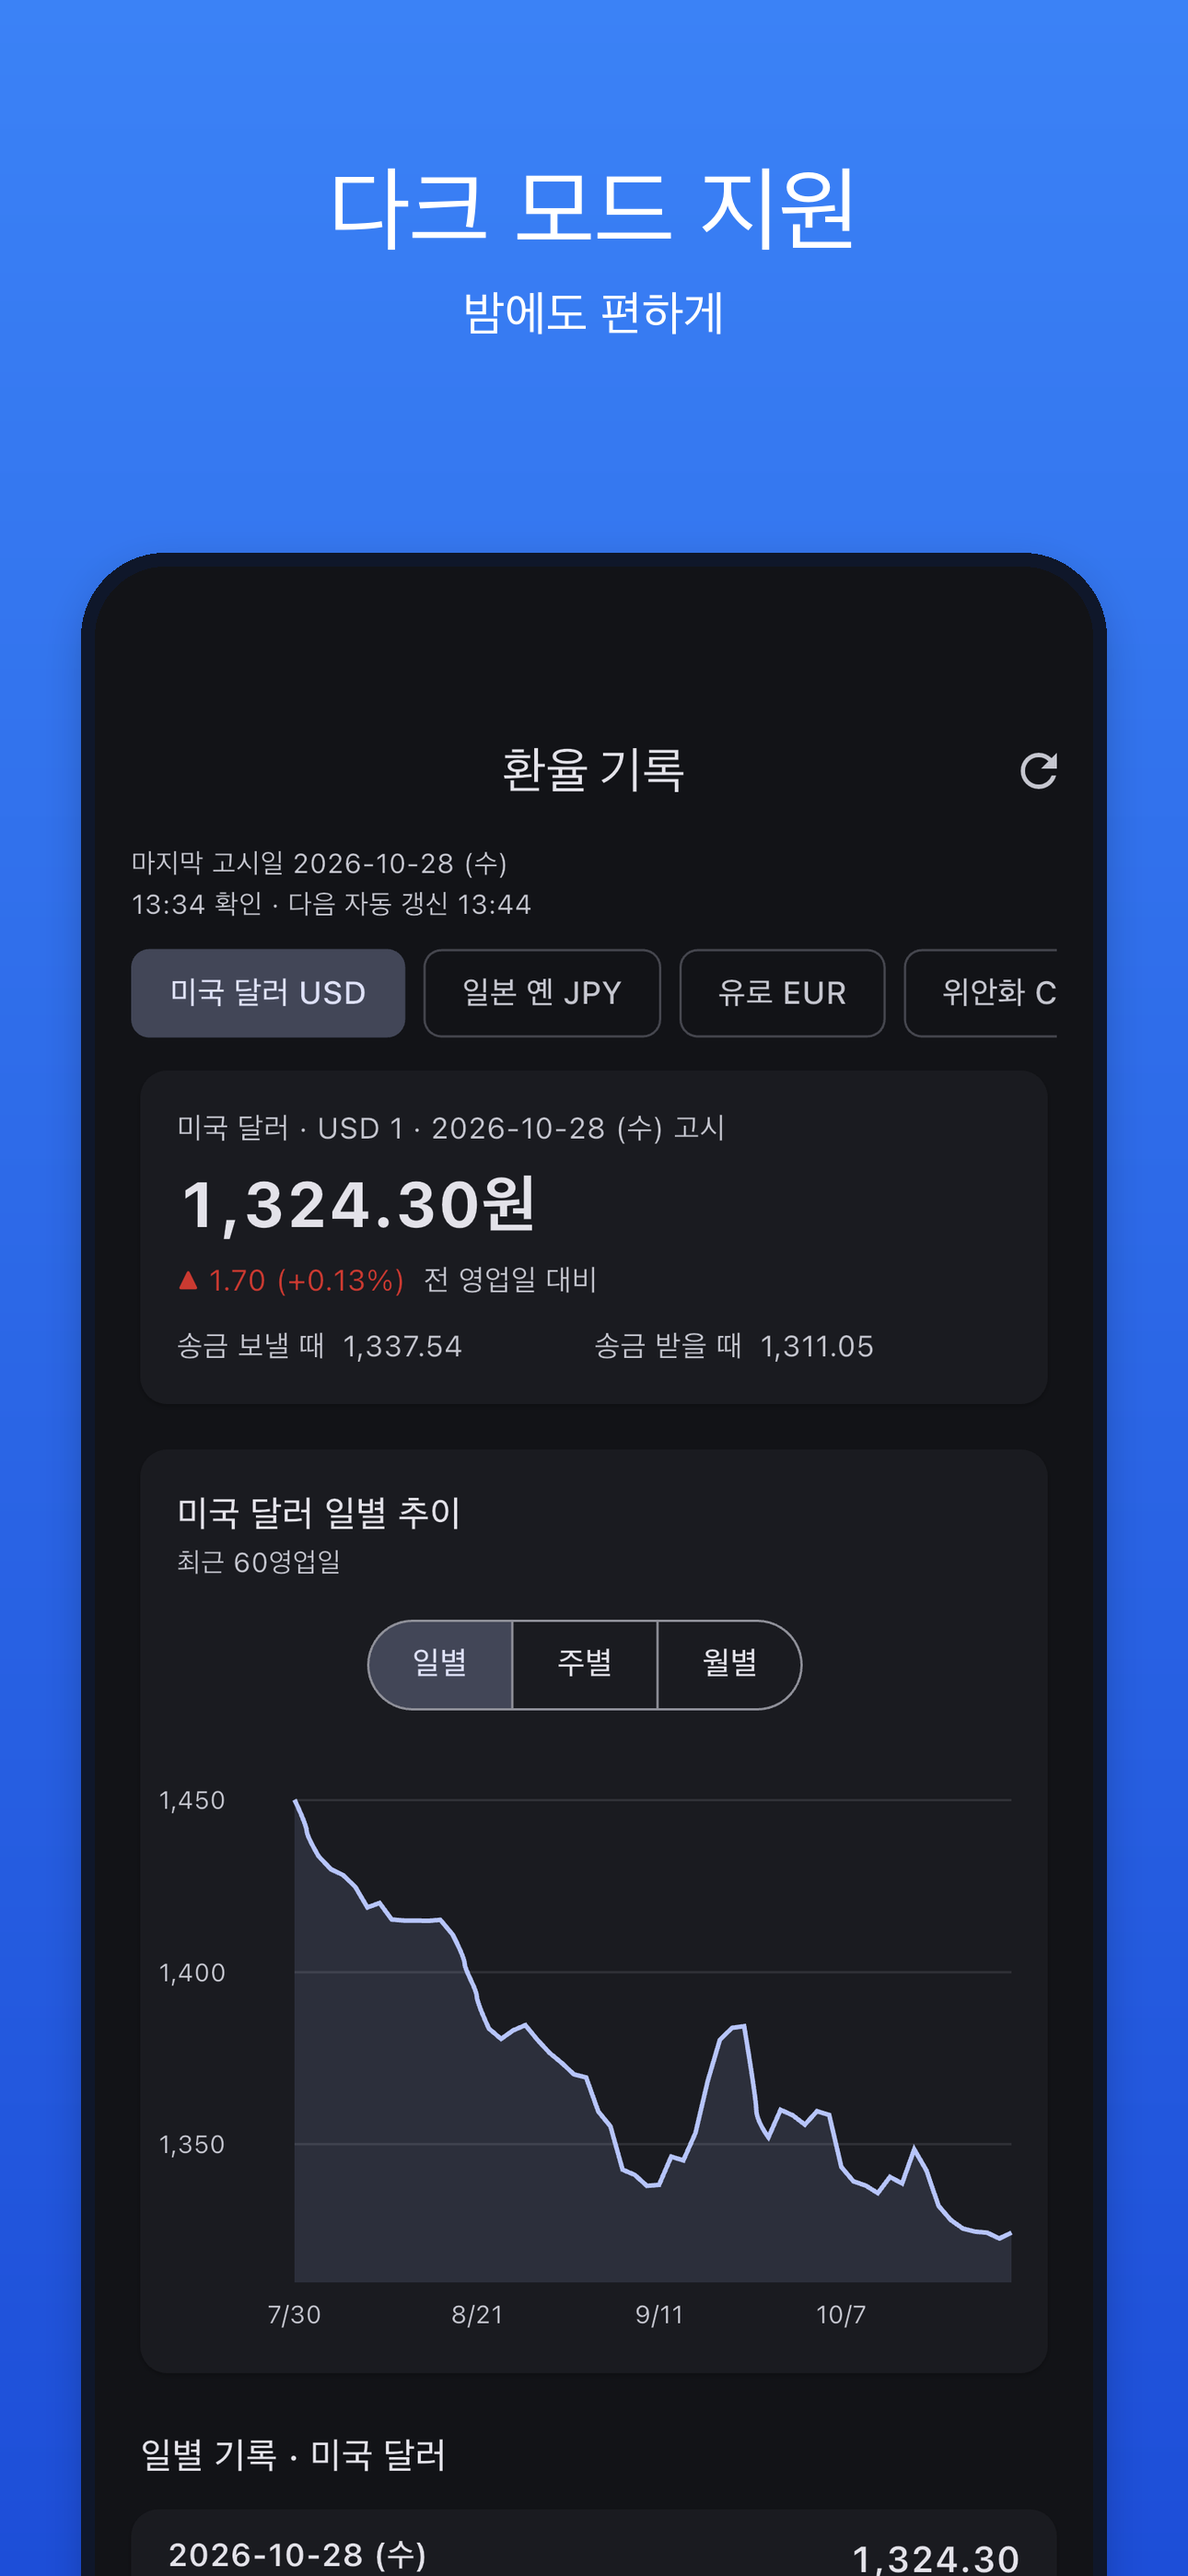
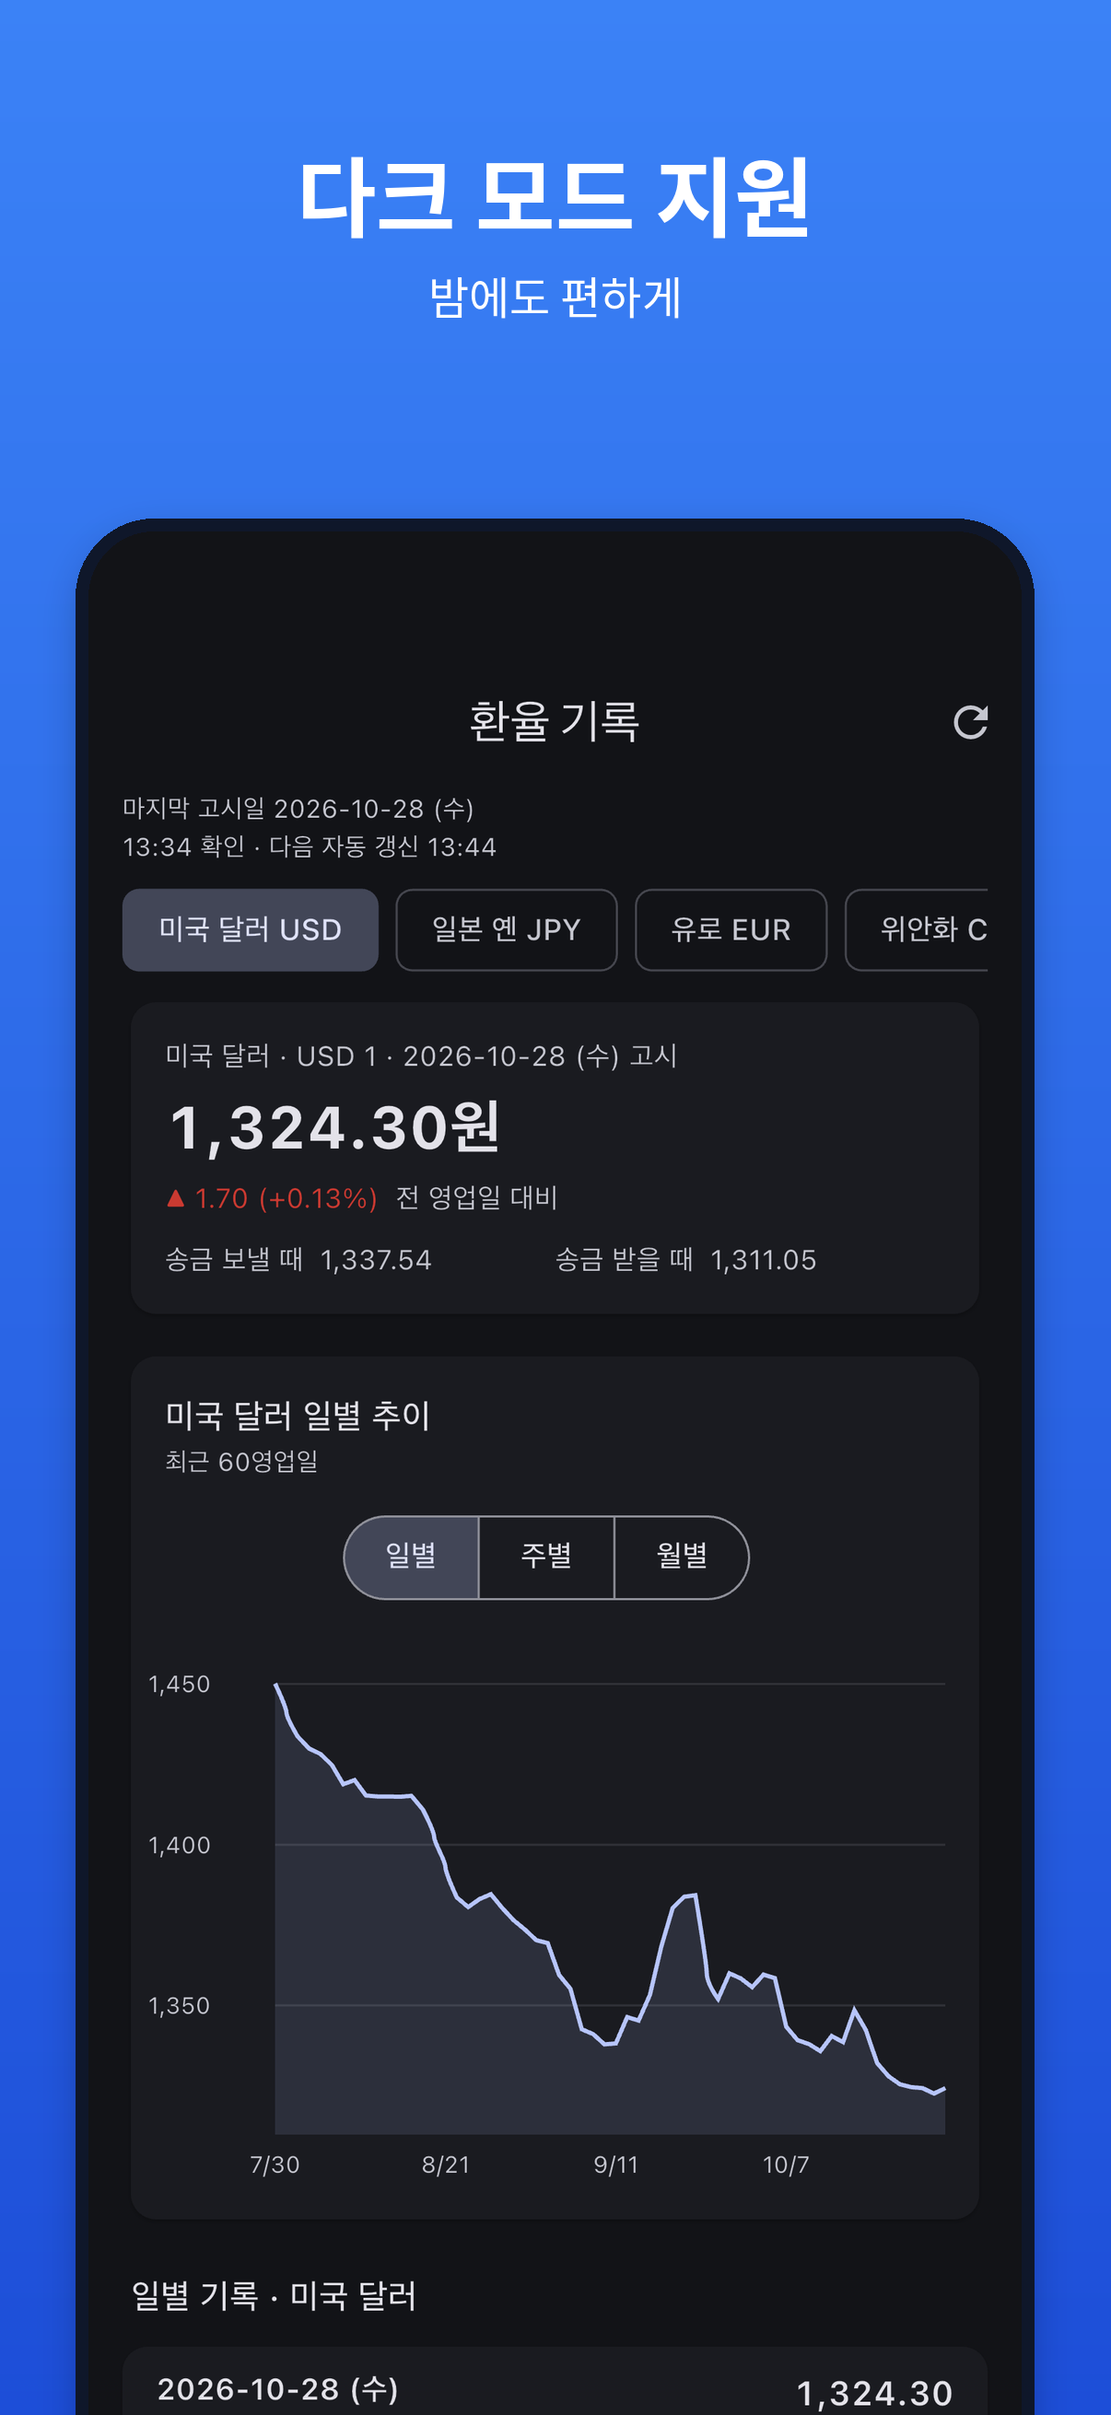
App Store 스크린샷을 1206×2622(및 1179×2556)로 변경
App Store Connect iPhone(Dynamic Island 지원, 중형 디스플레이) 칸이 받는 크기에 맞춤

Claude-Session: https://claude.ai/code/session_014sz1SjcnwJ7HZPM6hRhbwQ

diff --git a/store-assets/frame_screenshots.py b/store-assets/frame_screenshots.py
@@ -11,7 +11,8 @@
 입력: raw/01.png, raw/02.png ... (에뮬레이터·실기기 세로 캡처, 크기 무관)
 출력:
   out/screenshots/play/01.png ...      1080×1920 (Google Play 휴대폰)
-  out/screenshots/appstore/01.png ...  1290×2796 (App Store 6.9형 iPhone)
+  out/screenshots/appstore/01.png ...            1206×2622 (App Store iPhone)
+  out/screenshots/appstore-1179x2556/01.png ...  1179×2556 (App Store iPhone, 다른 허용 크기)
 캡션은 아래 CAPTIONS에서 바꿀 수 있다.
 """
 import argparse
@@ -32,7 +33,9 @@ CAPTIONS = [
 
 SIZES = {
     "play": (1080, 1920),
-    "appstore": (1290, 2796),
+    # App Store Connect "Dynamic Island 지원 iPhone (중형 디스플레이)" 칸이 받는 크기
+    "appstore": (1206, 2622),
+    "appstore-1179x2556": (1179, 2556),
 }
 
 TOP = (59, 130, 246)      # #3B82F6

diff --git a/store-assets/store-listing.md b/store-assets/store-listing.md
@@ -107,7 +107,7 @@
 | 앱 아이콘 | `out/play-icon-512.png` (512×512) | `out/icon-1024.png` (1024×1024, 투명도 없음) |
 | 앱 안 아이콘 | 적응형: `out/android-adaptive-foreground.png` + `out/android-adaptive-background.png` | Xcode에 `icon-1024.png` 한 장 |
 | 대표 이미지 | `out/play-feature-graphic-1024x500.png` (필수) | 없음 |
-| 휴대폰 스크린샷 | 2~8장, 1080×1920 (`frame_screenshots.py`가 생성) | 6.9형 1290×2796 (`frame_screenshots.py`가 생성) |
+| 휴대폰 스크린샷 | 2~8장, 1080×1920 (`frame_screenshots.py`가 생성) | iPhone 1206×2622 (`frame_screenshots.py`가 생성) |
 | 태블릿 스크린샷 | 선택 | iPad를 지원하면 13형 2064×2752 필요 → iPhone 전용으로 설정하면 불필요 |
 
 > Flutter 기본 iOS 설정은 iPad도 지원(TARGETED_DEVICE_FAMILY = 1,2)이라, iPad 스크린샷 없이 내려면 Xcode → Runner → General → Supported Destinations에서 iPad를 빼주세요.

diff --git a/store-assets/README.md b/store-assets/README.md
@@ -3,7 +3,7 @@
 ```
 store-listing.md        스토어 문구(이름, 설명, 키워드 등)와 등록 정보, 규격 정리
 capture-prompt.md       에뮬레이터에서 스크린샷 5장을 캡처하는 VS Code Claude Code용 프롬프트
-frame_screenshots.py    캡처(raw/)에 캡션을 입혀 Play 1080×1920, App Store 1290×2796으로 만드는 스크립트
+frame_screenshots.py    캡처(raw/)에 캡션을 입혀 Play 1080×1920, App Store 1206×2622으로 만드는 스크립트
 out/
   icon-1024.png                     App Store 아이콘 (투명도 없음)
   play-icon-512.png                 Google Play 아이콘

diff --git a/store-assets/appstore-guide.md b/store-assets/appstore-guide.md
@@ -73,7 +73,7 @@ https://appstoreconnect.apple.com/apps → **+ → 신규 앱**
 
 ## 6. 버전 1.0 (iOS 앱 → 1.0 준비 중)
 
-**스크린샷 · iPhone 6.9형** (1290×2796, 3~10장)
+**스크린샷 · iPhone iPhone** (1206×2622, 3~10장)
 `store-assets/out/screenshots/appstore/01~05.png`
 → 안드로이드 캡처로 만든 임시본이니, TestFlight로 아이폰에 설치한 뒤 아이폰에서 캡처해서 `raw/`에 넣고 `python frame_screenshots.py`를 다시 돌린 걸 올리는 게 안전해요.
 
